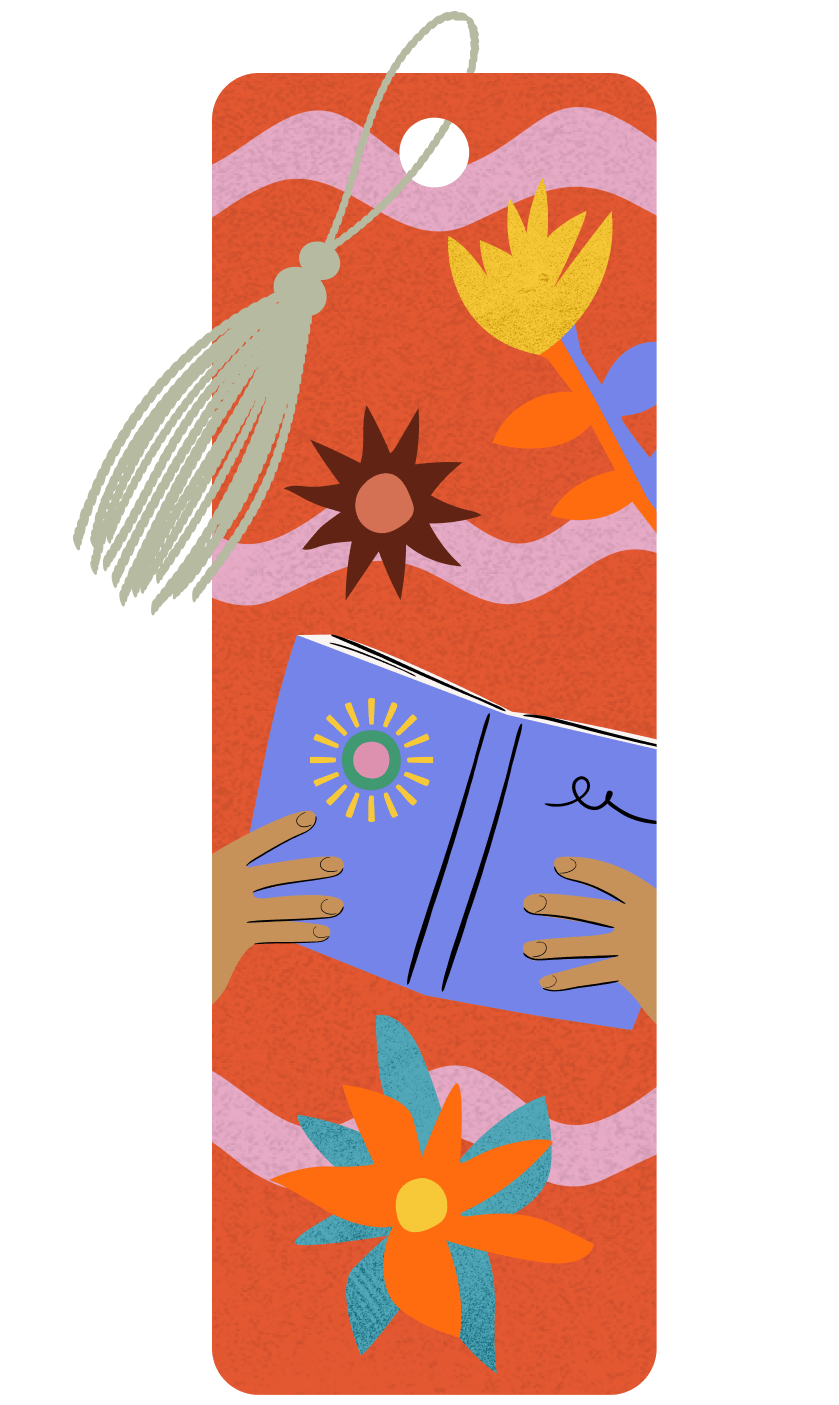
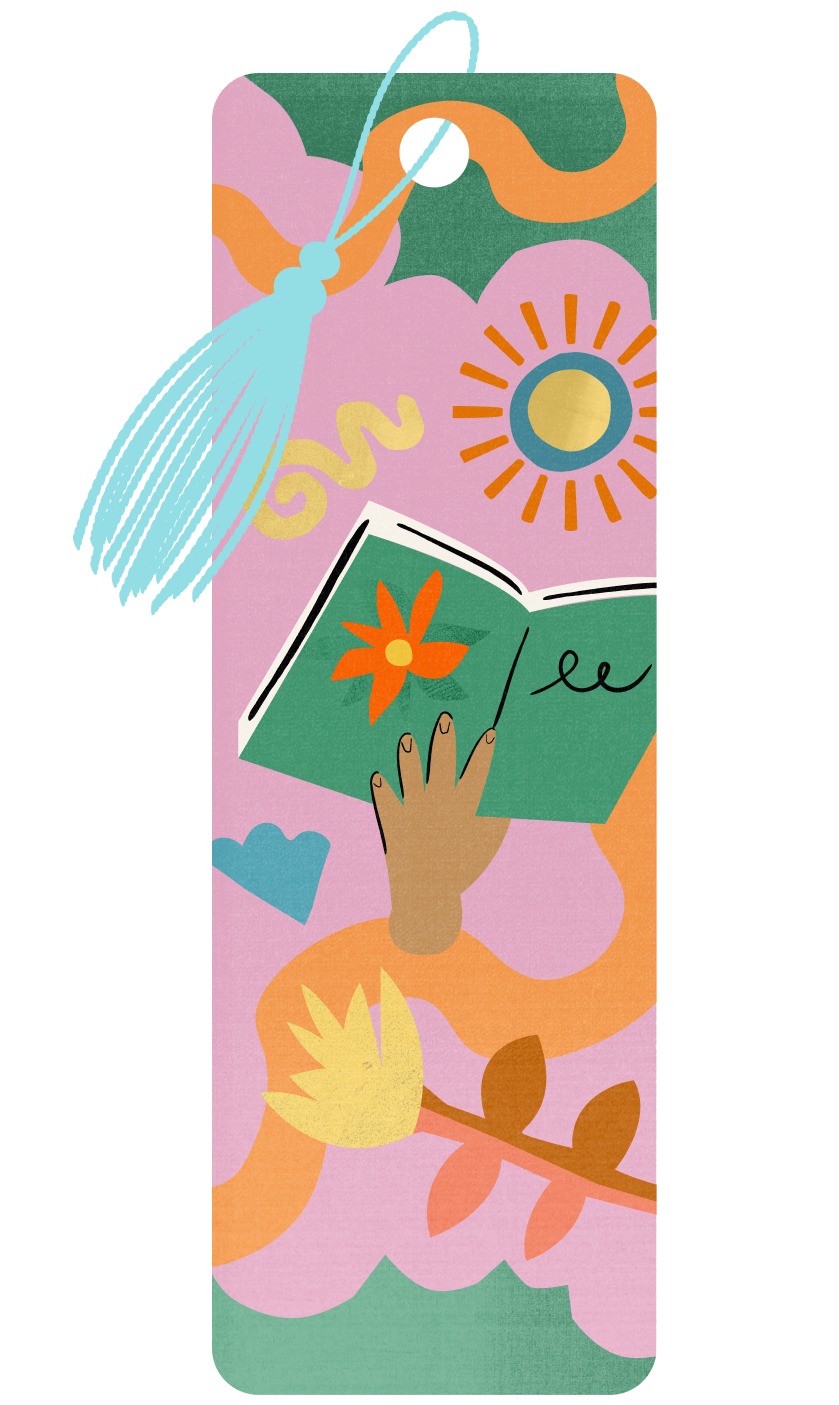
Added 2 of the 4 currently available achievements:
* Oprah's Picks
* Hispanic Heritage

🔖

Will post more as I achieve them

Happy reading

📚

diff --git a/README.md b/README.md
@@ -19,8 +19,8 @@ Fall into new achievements and end your reading year on a high note.
 |   <img src="Media/Badges/page-turner-fall-2026/page-turner-fall-2026.png" alt="Page-Turner" width="200"/>   |    Page-Turner    |   Collect this achievement when you finish any two books between September 15 and December 31.  |
 | <img src="Media/Badges/speed-reader-fall-2026/speed-reader-fall-2026.png" alt="Speed Reader" width="200"/>  |   Speed Reader    | Collect this achievement when you finish any three books between September 15 and December 31.  |
 | <img src="Media/Badges/book-boss-fall-2026/book-boss-fall-2026.png" alt="Book Boss" width="200"/> | Book Boss |  Collect this achievement when you finish any five books between September 15 and December 31.  |
-| <img src="Media/Badges/oprahs-picks/oprahs-picks-empty.png" alt="Oprah's Picks" width="200"/> |  Oprah's Picks  | Celebrate 30 years of Oprah's Book Club! Join in and collect the official anniversary achievement when you read one of these picks between Sept. 15 and Dec. 31. Presented by Oprah's Book Club. |
-| <img src="Media/Badges/empty/empty.png" alt="Hispanic Heritage" width="200"/> |  Hispanic Heritage  | Collect this achievement when you read one of these books for Hispanic Heritage Month between Sept. 15 and Dec. 31. |
+| <img src="Media/Badges/oprahs-picks/oprahs-picks.png" alt="Oprah's Picks" width="200"/> |  Oprah's Picks  | Celebrate 30 years of Oprah's Book Club! Join in and collect the official anniversary achievement when you read one of these picks between Sept. 15 and Dec. 31. Presented by Oprah's Book Club. |
+| <img src="Media/Badges/hispanic-heritage/hispanic-heritage.png" alt="Hispanic Heritage" width="200"/> |  Hispanic Heritage  | Collect this achievement when you read one of these books for Hispanic Heritage Month between Sept. 15 and Dec. 31. |
 | <img src="Media/Badges/empty/empty.png" alt="Decade of Reads" width="200"/> |  Decade of Reads  | Collect this achievement when you read one of these popular books from the past 10 years between Sept. 15 and Dec. 31. |
 | <img src="Media/Badges/empty/empty.png" alt="Spellbound" width="200"/> |  Spellbound  | Collect this achievement when you read one of these witchy books between Sept. 15 and Dec. 31. |
 | <img src="Media/Badges/mystery/mystery.png" alt="Mystery" width="200"/> |  Mystery  | <strong>Hint:</strong> Read at your own risk. <br><em>Reveals on October 1, 2026</em> |
